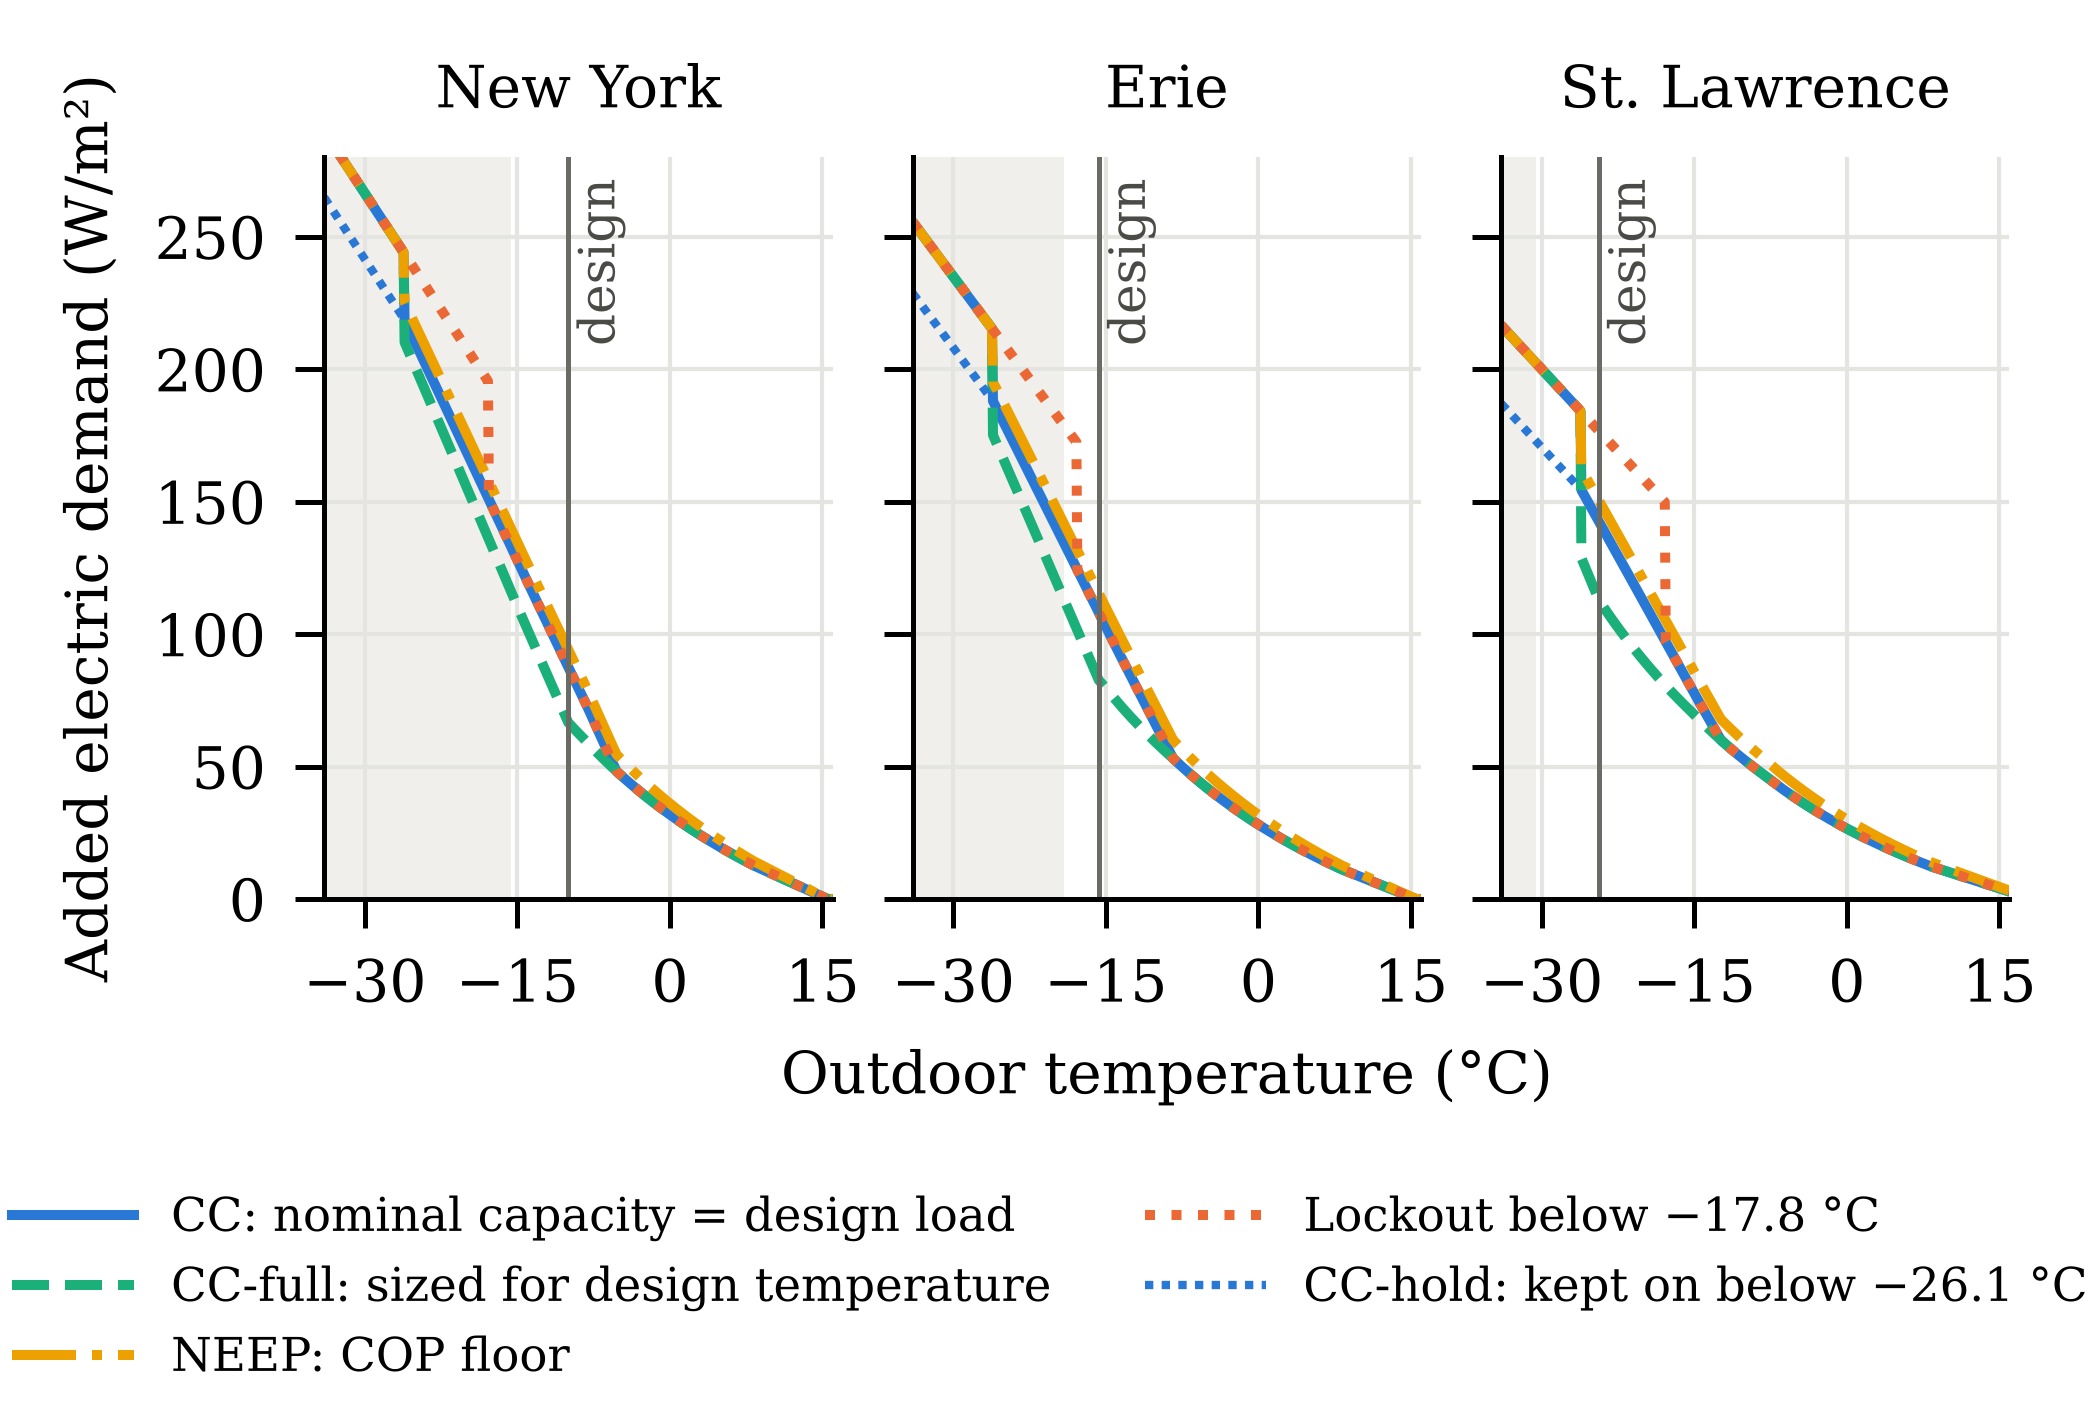
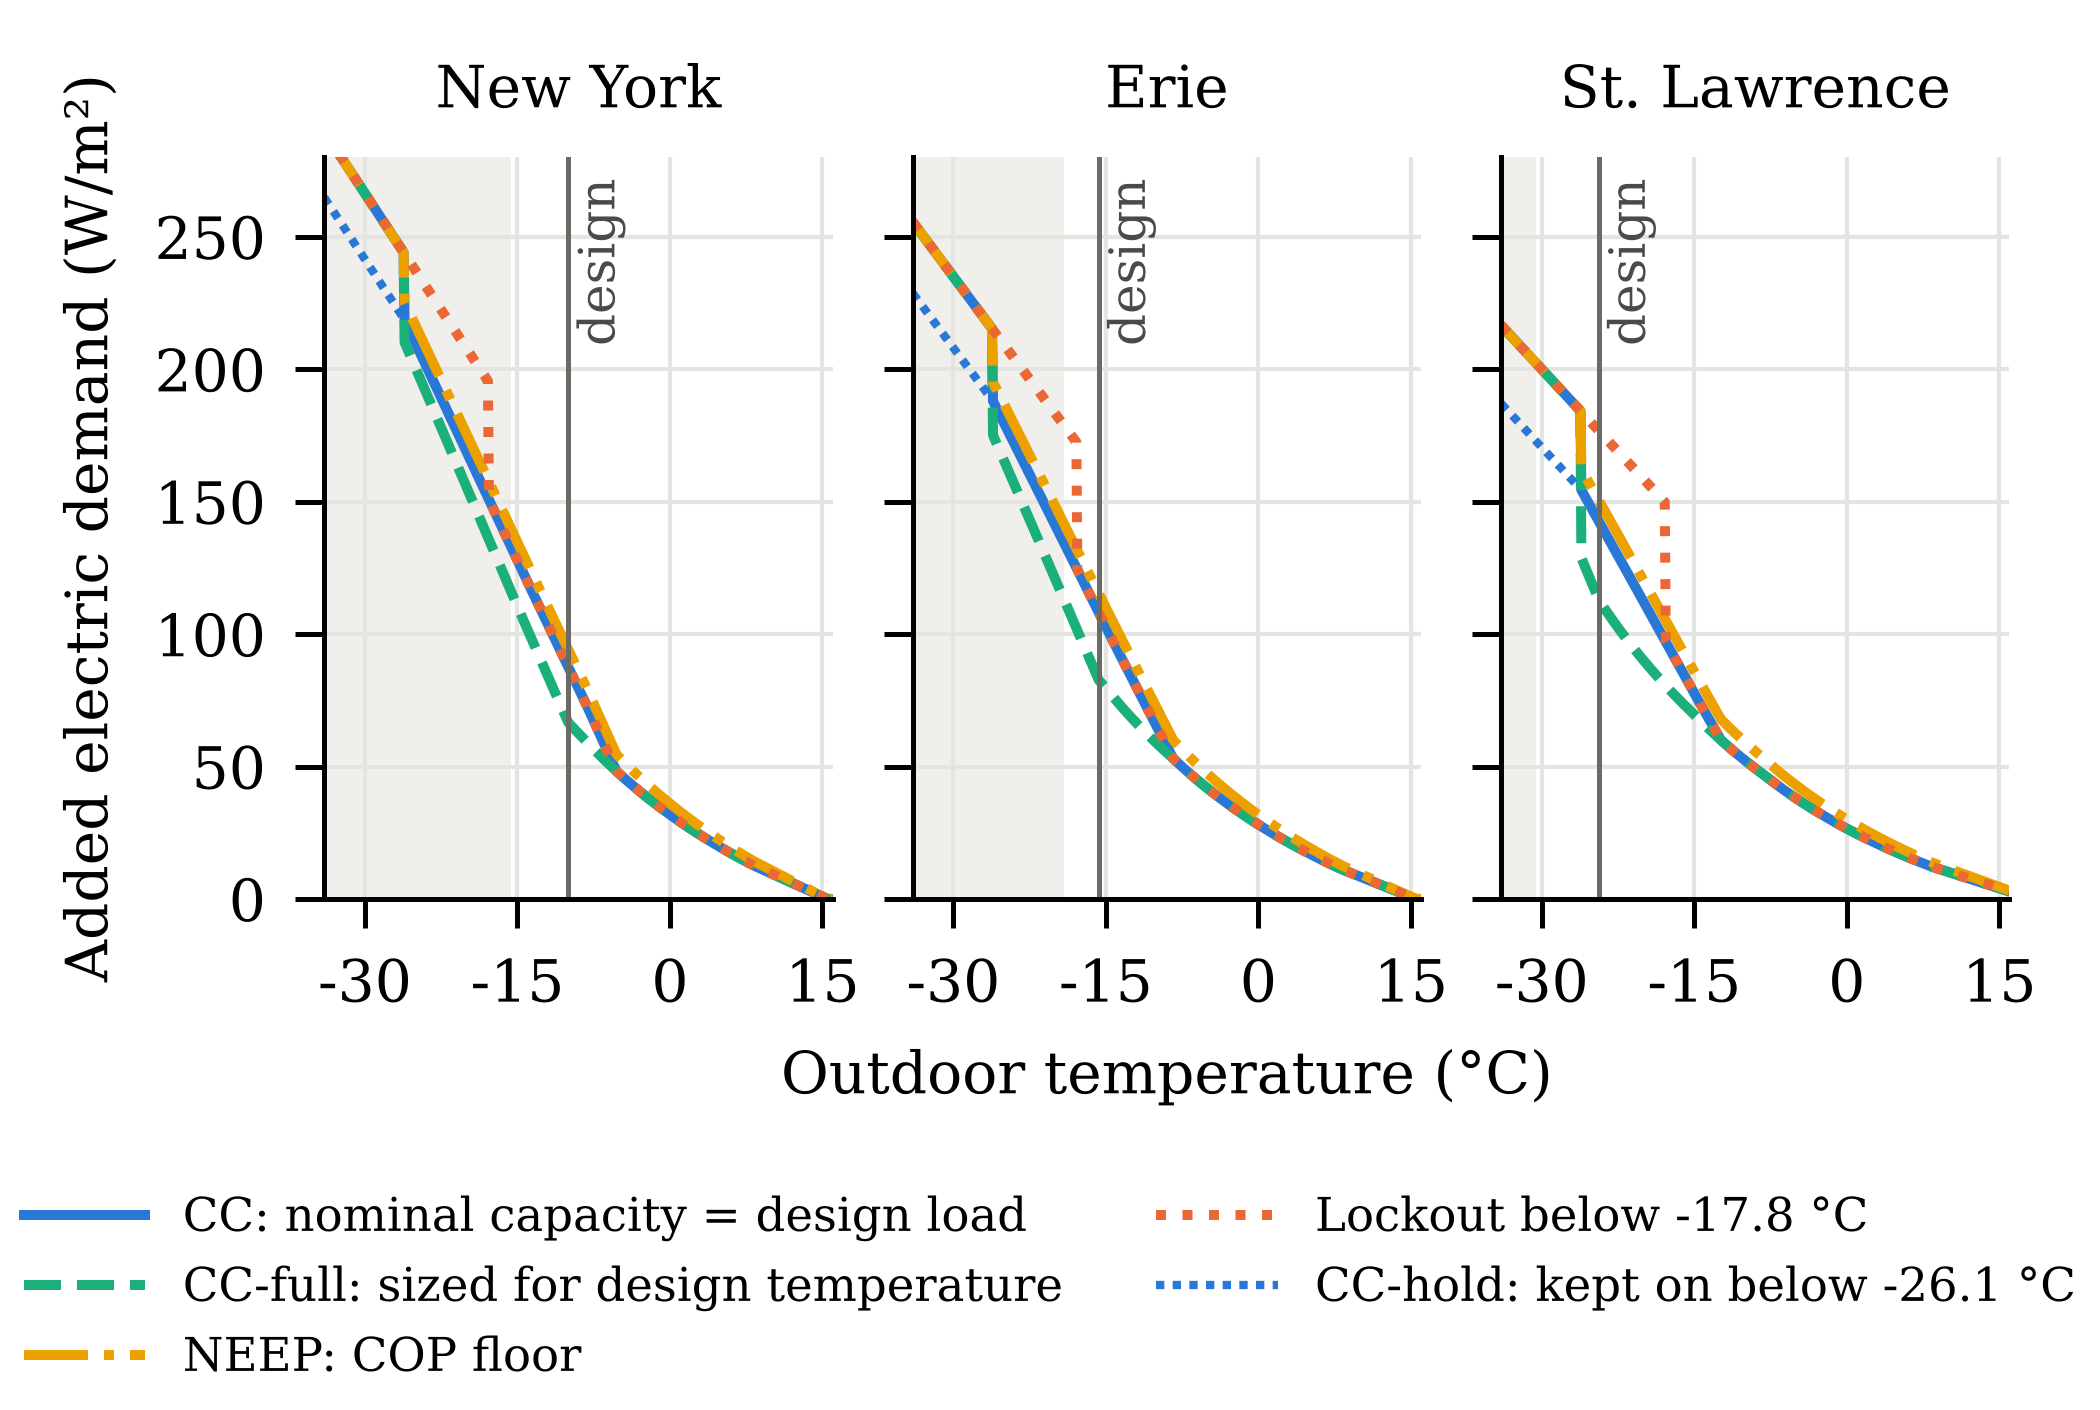
Replace long dashes and minus signs with hyphens (text, tables, figures)
Claude-Session: https://claude.ai/code/session_01XSg6oEkUkzpUU6n5PC5XgV

diff --git a/paper/build_paper.py b/paper/build_paper.py
@@ -11,7 +11,7 @@ sys.path.insert(0, str(ROOT / "paper"))
 from paper_numbers import load  # noqa: E402
 
 N = load()
-M = "−"
+M = "-"
 
 TITLE = ("Cold-Morning Peaks from Electrified School Heating in New York "
          "State: Heat-Pump Choice, Weather-Year Risk and Short-Duration "
@@ -94,7 +94,7 @@ def body() -> list:
       f"balance temperatures of {N['tbal_lo']}{M}{N['tbal_hi']} °C and "
       f"R² of {N['r2_lo']}{M}{N['r2_hi']}. The fleet thermal demand in "
       "hour t is".replace("{M}", M))
-    eq("Q_{t} = Σ_{b} A_{b} s_{b} max(0, T_{bal,b} − T_{t})", 1)
+    eq("Q_{t} = Σ_{b} A_{b} s_{b} max(0, T_{bal,b} - T_{t})", 1)
     p("where A_{b} is the floor area, s_{b} the slope and T_{bal,b} the "
       "balance temperature of school type b, and T_{t} the outdoor "
       "temperature.")
@@ -107,7 +107,7 @@ def body() -> list:
       f"{N['ny_miss']}%, {N['er_miss']}% and {N['sl_miss']}% of occupied "
       "hours remain missing and are dropped. As a check, the Central Park "
       f"minimum of the record, {N['ny_tmin']} °C on 14 February 2016, "
-      "matches the −1 °F reported for that morning. Occupied hours exclude U.S. federal holidays, "
+      "matches the -1 °F reported for that morning. Occupied hours exclude U.S. federal holidays, "
       "24 December{M}1 January and the week of Presidents' Day, an "
       "approximation of New York school calendars (for example, New York "
       "City schools were closed 16{M}20 February 2015); a run with every "
@@ -121,10 +121,10 @@ def body() -> list:
       "electric-resistance backup; the result is the added electric demand, "
       "not the net change in the school's total load. The heat-pump "
       "nominal thermal capacity is")
-    eq("H = Σ_{b} A_{b} s_{b} max(0, T_{bal,b} − T_{des}) / k(T_{des})^{δ}", 2)
+    eq("H = Σ_{b} A_{b} s_{b} max(0, T_{bal,b} - T_{des}) / k(T_{des})^{δ}", 2)
     p("with k(T) the capacity fraction at temperature T. With heat-pump "
       "output G_{t} = min(Q_{t}, k(T_{t})H), the electric demand is")
-    eq("P_{t} = G_{t}/COP(T_{t}) + (Q_{t} − G_{t})",
+    eq("P_{t} = G_{t}/COP(T_{t}) + (Q_{t} - G_{t})",
        3)
     p("Five cases are compared. CC (main): a cold-climate curve with COP "
       f"3.37, 2.33, 1.98 and 1.49 at 8.3, {M}8.3, {M}15 and {M}26.1 °C "
@@ -132,7 +132,7 @@ def body() -> list:
       "capacity equal to the design-temperature load (δ = 0, the rule "
       "of [10]) and resistance only below the coldest rated point. "
       "CC-full: as CC with δ = 1, so the derated capacity meets the "
-      "design load. NEEP: CC with COP scaled to 1.75 at −15 °C, "
+      "design load. NEEP: CC with COP scaled to 1.75 at -15 °C, "
       "the qualifying floor of the NEEP cold-climate specification [7]. "
       f"Lockout: CC with the compressor off below {M}17.8 °C (0 °F), "
       "the behavior of the standard-performance heat-pump rooftop unit "
@@ -141,9 +141,9 @@ def body() -> list:
       "running in deep cold.".replace("{M}", M))
     h2("Peak capping with storage")
     p("Let P_{max} be the highest occupied-hour demand over all winters. A "
-      "battery of power xP_{max} holds demand at (1 − x)P_{max} if its "
+      "battery of power xP_{max} holds demand at (1 - x)P_{max} if its "
       "usable energy covers the worst school day:")
-    eq("E = max_{d} Σ_{t∈d} max(0, P_{t} − (1 − x)P_{max})", 4)
+    eq("E = max_{d} Σ_{t∈d} max(0, P_{t} - (1 - x)P_{max})", 4)
     p("Nameplate energy is E/(η_{d}u), with discharge efficiency "
       "η_{d} = 0.85^{0.5} from an 85% round trip [9] and usable fraction "
       "u = 0.9; duration is nameplate energy over power. Discharge assumes "
@@ -155,7 +155,7 @@ def body() -> list:
     h1("Results")
     h2("Why the peak is steep")
     p("Fig. 1 shows the added demand per square foot as a function of "
-      "outdoor temperature. Between 0 and −5 °C the heat pumps "
+      "outdoor temperature. Between 0 and -5 °C the heat pumps "
       "carry the load at a COP near 2.5 or above and each degree adds "
       f"{N['slope_mild_lo']}{M}{N['slope_mild_hi']} W/m². Around the "
       "design temperature the derated capacity no longer covers the load "
@@ -171,7 +171,7 @@ def body() -> list:
               "Added electric demand of the county school stock per square "
               "foot versus outdoor temperature for the five heat-pump cases. "
               "Vertical line: design temperature; shaded: colder than any "
-              "occupied hour in 2014/15–2024/25."))
+              "occupied hour in 2014/15-2024/25."))
     h2("Peak demand and heat-pump choice")
     p("Table I lists the peaks. With the main CC case the school stock adds "
       f"{N['ny_cc_mw']} MW in New York County, {N['er_cc_mw']} MW in Erie "
@@ -283,7 +283,7 @@ REFS = [
     "Rev., vol. 44, Art. no. 100985, 2022, doi: 10.1016/j.esr.2022.100985.",
     "M. Waite and V. Modi, “Electricity load implications of space "
     "heating decarbonization pathways,” Joule, vol. 4, no. 2, "
-    "pp. 376–394, 2020, doi: 10.1016/j.joule.2019.11.011.",
+    "pp. 376-394, 2020, doi: 10.1016/j.joule.2019.11.011.",
     "P. R. White, J. D. Rhodes, E. J. H. Wilson, and M. E. Webber, "
     "“Quantifying the impact of residential space heating "
     "electrification on the Texas electric grid,” Appl. Energy, "
@@ -354,8 +354,8 @@ def table2_rows():
 
 
 def to_markdown(blocks) -> str:
-    out = [f"# {TITLE}", "", f"{AUTHOR} — {AFFIL} — {EMAIL}", "",
-           f"**Abstract—**{ABSTRACT}", "", f"**Index Terms—**{INDEX}",
+    out = [f"# {TITLE}", "", f"{AUTHOR} - {AFFIL} - {EMAIL}", "",
+           f"**Abstract-**{ABSTRACT}", "", f"**Index Terms-**{INDEX}",
            ""]
     sec = fig = tab = 0
     roman = ["I", "II", "III", "IV", "V", "VI"]

diff --git a/scripts/make_figures.py b/scripts/make_figures.py
@@ -23,12 +23,12 @@ LS = {"cc": "-", "cc_full": "--", "neep": "-.", "lockout": ":",
 NAME = {"cc": "CC: nominal capacity = design load",
         "cc_full": "CC-full: sized for design temperature",
         "neep": "NEEP: COP floor",
-        "lockout": "Lockout below \u221217.8 \u00b0C",
-        "cc_hold": "CC-hold: kept on below \u221226.1 \u00b0C"}
+        "lockout": "Lockout below -17.8 \u00b0C",
+        "cc_hold": "CC-hold: kept on below -26.1 \u00b0C"}
 COUNTY_COL = {"Erie": "#2a78d6", "St. Lawrence": "#eb6834",
               "New York": "#1baf7a"}
 COUNTY_MK = {"Erie": "o", "St. Lawrence": "s", "New York": "^"}
-plt.rcParams.update({"font.size": 7, "font.family": "serif",
+plt.rcParams.update({"axes.unicode_minus": False, "font.size": 7, "font.family": "serif",
                      "axes.spines.top": False, "axes.spines.right": False,
                      "axes.linewidth": 0.6, "xtick.major.width": 0.6,
                      "ytick.major.width": 0.6, "axes.grid": True,

diff --git a/paper/make_docx_pes.py b/paper/make_docx_pes.py
@@ -142,10 +142,10 @@ def build(blocks, out: Path, P) -> None:
     ab, it = paras[17], paras[18]
     _clear(ab)
     ab.add_run("Abstract").italic = True
-    ab.add_run("—" + P.ABSTRACT)
+    ab.add_run("--" + P.ABSTRACT)
     _clear(it)
     it.add_run("Index Terms").italic = True
-    it.add_run("—" + P.INDEX)
+    it.add_run("--" + P.INDEX)
 
     # remove the template's sample body up to the section break (para 130)
     anchor = paras[130]

diff --git a/paper/paper_numbers.py b/paper/paper_numbers.py
@@ -16,7 +16,7 @@ SHORT = {"New York": "ny", "Erie": "er", "St. Lawrence": "sl"}
 
 def f(x, d=1):
     s = f"{x:.{d}f}"
-    return s.replace("-", "−")
+    return s
 
 
 def load() -> dict:
